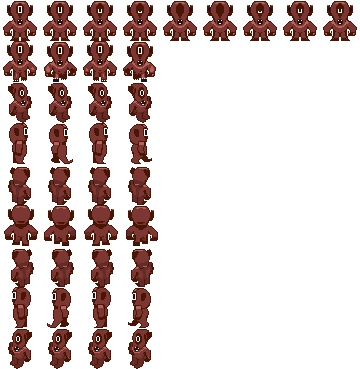
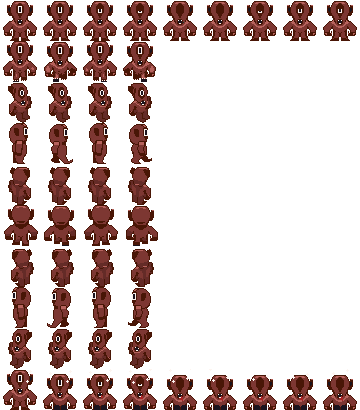
remove Enemy when killed

Changed region(s): [[0.0, 0.0, 1.0, 1.0]]

diff --git a/js/enemy/enemy.js b/js/enemy/enemy.js
@@ -1,5 +1,17 @@
 const DEBUG_ENEMY_MOVEMENT = false; // extremely spammy debug logs
 
+function removeEnemyFromList(){
+	for(var i = 0; i < miniCyclopList.length; i++){
+		if(miniCyclopList.readyToRemove == true){
+			miniCyclopList.splice(i,1);
+		}
+	}
+	/*var rogueList = [];
+	var blobList = [];
+	var skeletonList = [];
+	var kregList = []; */
+}
+
 class enemyClass {
     name="enemy";
     x = 600;
@@ -13,6 +25,8 @@ class enemyClass {
 	offSetHeight = 0;
 	miniMapX = 630;
 	miniMapY = 30;
+	dead = false;
+	setFrameToZeroOnce = true;
 	
 	maxHealth = 2;
 	speed = 3;
@@ -214,6 +228,10 @@ class enemyClass {
 			this.alive = false;
 		} else {
 			this.alive = true;
+		}
+
+		if(!this.alive){
+			return;
 		}
 
 		if(this.alive){
@@ -688,32 +706,39 @@ class enemyClass {
 			this.myShotList[i].draw();
 		}
 
-		if(this.offSetHeight == 0){ //enemy is standing still
-			let toAnimateEnemyNumber = getRndInteger(0, 1000);
-			if(toAnimateEnemyNumber > 995){
-				this.animateEnemyStandingStill = true;
-			}
-			if(this.animateEnemyStandingStill){
-				this.frames = 7;
-				this.animateEnemy()
-			}
-		} else { //enemy is moving
-			this.frames = 3;
-			this.animateEnemy();
-		}
-		gameCoordToIsoCoord(this.x,this.y);
-		canvasContext.drawImage(shadowPic,isoDrawX-(this.width/2), isoDrawY-this.height + ISO_SHADOW_OFFSET_Y);
-		colorText(this.myName, isoDrawX + 20, isoDrawY - 30, "black", "8px Arial Black");
-		canvasContext.drawImage(this.myBitmap, this.offSetWidth, this.offSetHeight, this.width, this.height, 
-								isoDrawX-(this.width/2), isoDrawY-this.height - ISO_CHAR_FOOT_Y, this.width, this.height);
-		//displays health
-		colorRect(isoDrawX-(this.width/2) + 3, isoDrawY-this.height - 19, 24, 9, "red");
-		colorRect(isoDrawX-(this.width/2) + 3, isoDrawY-this.height - 19, (this.health / this.maxHealth) * 24, 9, "green");
-		canvasContext.drawImage(healthbarPic,isoDrawX-(this.width/2), isoDrawY-this.height - 20);
-		//colorRect(this.miniMapX, this.miniMapY, 10, 10, "green");	
+		if(!this.alive){
+			this.frames = 9;
+			this.offSetHeight = 9;
+			this.animateDeath();
+		} else {
 
-        // // display intended path
-        // this.drawPath();
+			if(this.offSetHeight == 0){ //enemy is standing still
+				let toAnimateEnemyNumber = getRndInteger(0, 1000);
+				if(toAnimateEnemyNumber > 995){
+					this.animateEnemyStandingStill = true;
+				}
+				if(this.animateEnemyStandingStill){
+					this.frames = 7;
+					this.animateEnemy()
+				}
+			} else { //enemy is moving
+				this.frames = 3;
+				this.animateEnemy();
+			}
+			gameCoordToIsoCoord(this.x,this.y);
+			canvasContext.drawImage(shadowPic,isoDrawX-(this.width/2), isoDrawY-this.height + ISO_SHADOW_OFFSET_Y);
+			colorText(this.myName, isoDrawX + 20, isoDrawY - 30, "black", "8px Arial Black");
+			canvasContext.drawImage(this.myBitmap, this.offSetWidth, this.offSetHeight, this.width, this.height, 
+									isoDrawX-(this.width/2), isoDrawY-this.height - ISO_CHAR_FOOT_Y, this.width, this.height);
+			//displays health
+			colorRect(isoDrawX-(this.width/2) + 3, isoDrawY-this.height - 19, 24, 9, "red");
+			colorRect(isoDrawX-(this.width/2) + 3, isoDrawY-this.height - 19, (this.health / this.maxHealth) * 24, 9, "green");
+			canvasContext.drawImage(healthbarPic,isoDrawX-(this.width/2), isoDrawY-this.height - 20);
+			//colorRect(this.miniMapX, this.miniMapY, 10, 10, "green");	
+
+			// // display intended path
+			// this.drawPath();
+		}
 	}
 
 	// work in progress - does not function
@@ -790,6 +815,21 @@ class enemyClass {
 		if(this.offSetWidth > (this.frames * this.width)){
 			this.offSetWidth = 0;
 			this.animateEnemyStandingStill = false;
+		}
+	}
+
+	animateDeath(){
+		if(this.setFrameToZeroOnce){
+			this.offSetWidth = 0;
+			this.setFrameToZeroOnce = false;
+		}
+		this.drawTimer++;
+		if(this.drawTimer == 8){
+			this.offSetWidth = this.offSetWidth + this.width;
+			this.drawTimer = 0;
+		}
+		if(this.offSetWidth > (this.frames * this.width)){
+			this.readyToRemove = true;
 		}
 	}
 

diff --git a/js/main.js b/js/main.js
@@ -309,6 +309,7 @@ function drawIsometricWorld() {
     while (entityIndex < entities.length) {
         entities[entityIndex].draw();
         entityIndex++;
+		removeEnemyFromList();
     }
     for(var i = 0; i < rockBulletList.length; i++){
         rockBulletList[i].draw();
